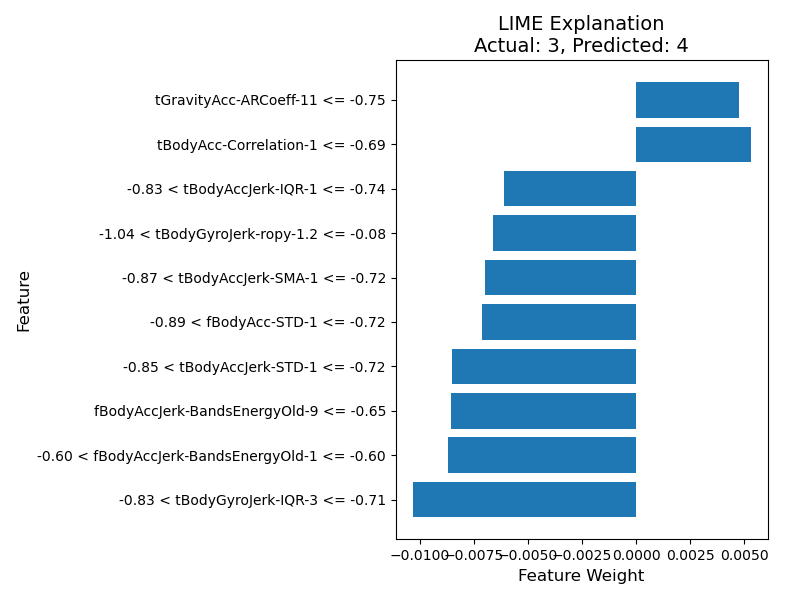
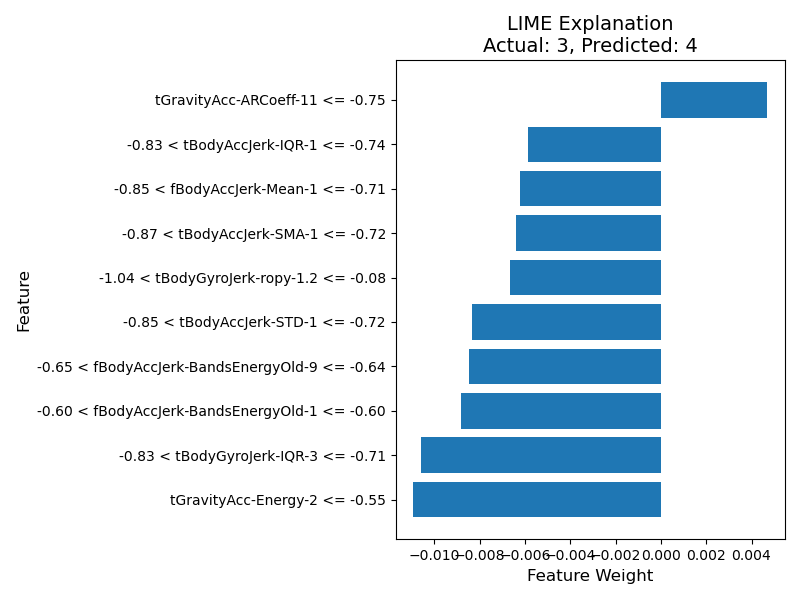
edits to lime

diff --git a/random_forest/misclassv2.py b/random_forest/misclassv2.py
@@ -98,8 +98,12 @@ else:
     )
     explanation_list = explanation.as_list(label=fallback_label)
 
-# Plot the feature importance for the misclassified instance
-features, weights = zip(*explanation_list)
+
+# Sort explanation_list by feature weight in descending order (positive first, then negative)
+explanation_list_sorted = sorted(explanation_list, key=lambda x: x[1], reverse=True)
+
+# Separate features and weights
+features, weights = zip(*explanation_list_sorted)
 
 plt.figure(figsize=(8, 6))
 plt.barh(features, weights)
